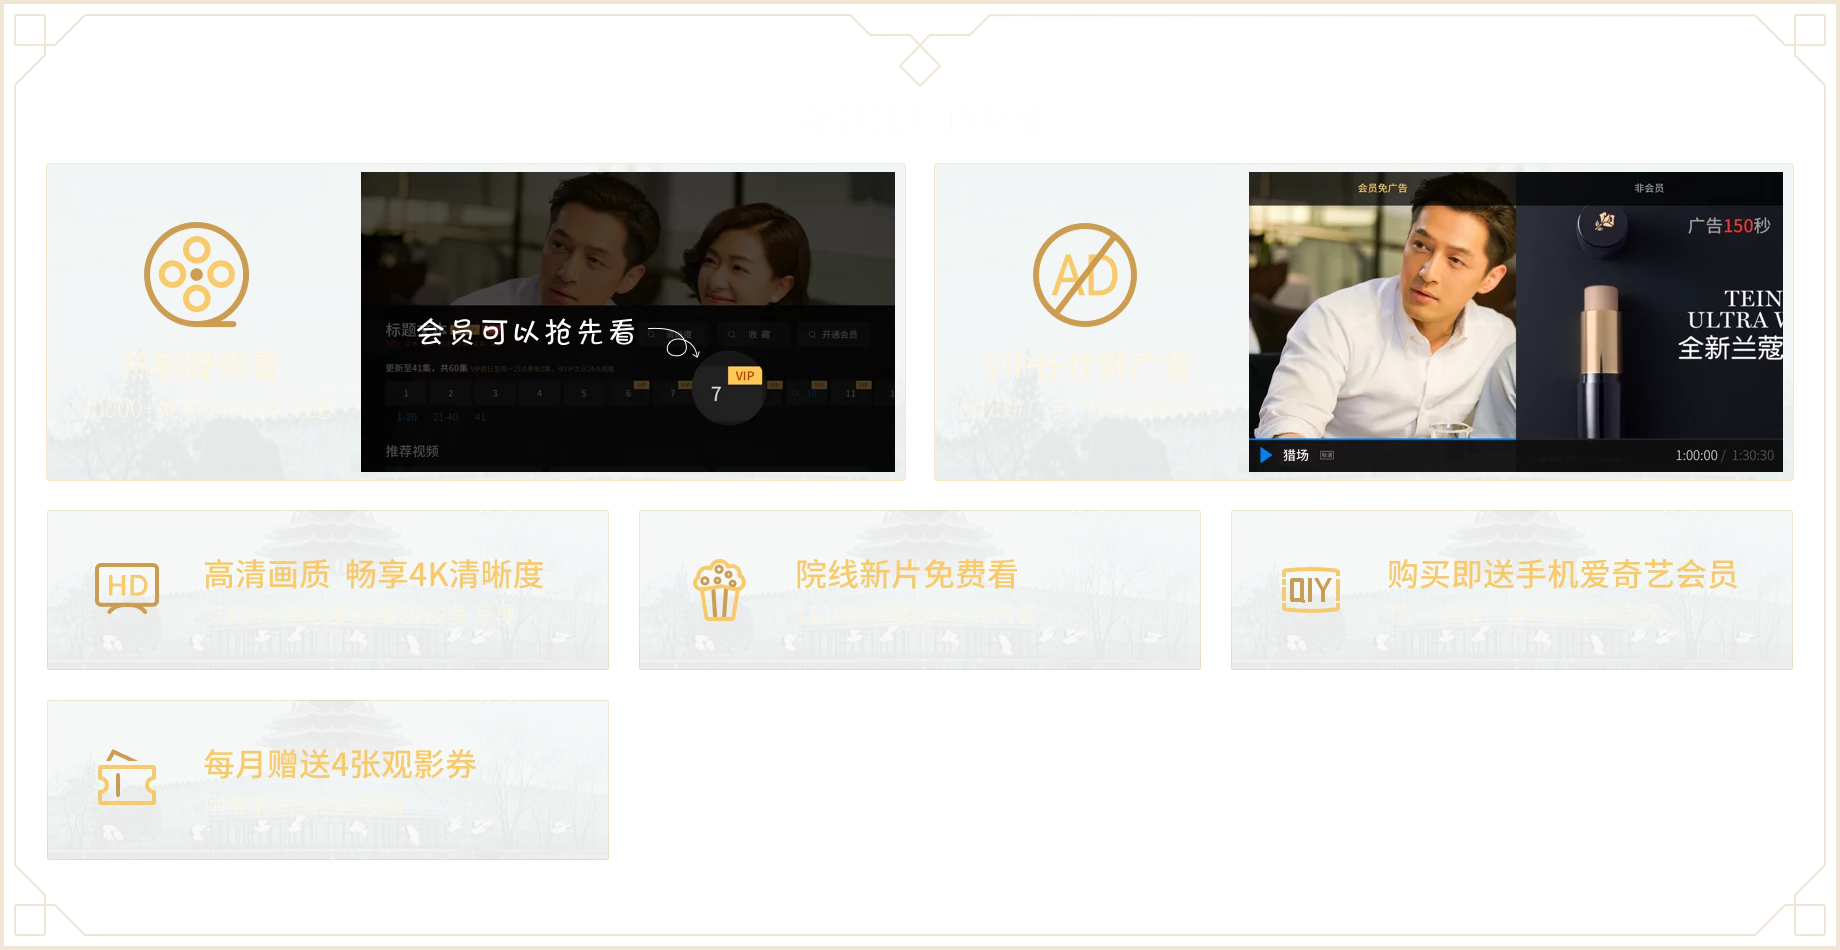
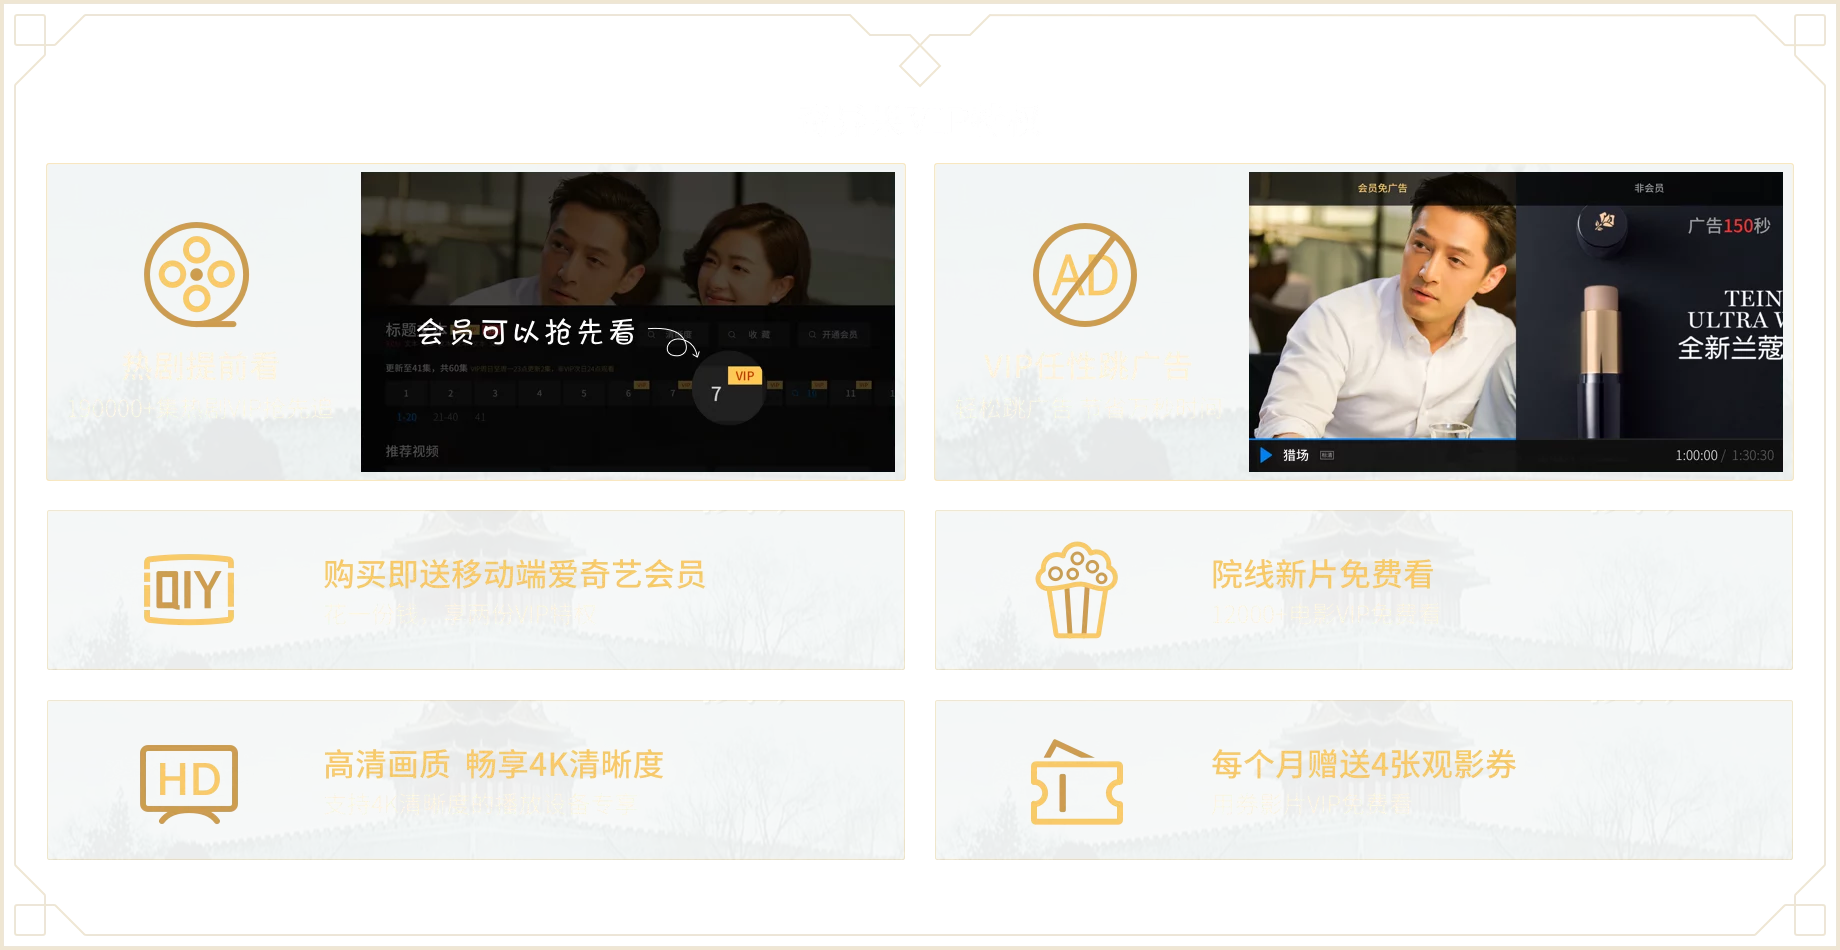
optimize: 统一各页面背景图

diff --git a/membership/memberMovieVIPInterest/sourcecode/css/index.css b/membership/memberMovieVIPInterest/sourcecode/css/index.css
@@ -6,14 +6,16 @@ body {
     -webkit-touch-callout: none;   
     -webkit-text-size-adjust: none;  
     -webkit-user-select: none;   
-    background-color: black;  
     background-attachment:fixed;
+    background-repeat: no-repeat;
+    background-size: cover;
     width:1920px;
     height: 1080px;
     margin:0px;
     padding:0px;
     text-transform:uppercase;
     overflow: hidden;
+    
 }
 
 /*标题区域*/
@@ -152,7 +154,8 @@ body {
 	width: 422px; 
 	height: 100%;
 	margin-right: 22px;
-	background: linear-gradient(-179deg, #FFD07E 0%, #D1AA6F 100%);
+	background-repeat: no-repeat;
+	background-size: 100%;
 	border: 4px solid transparent;
 	box-sizing: border-box;
 	background-origin: border-box;
@@ -240,7 +243,9 @@ body {
 	width: 1754px; /*default,will be re cal*/
 	height: 168px;
 	margin-bottom: 26px;
-	background: linear-gradient(-179deg, #FFD07E 0%, #D1AA6F 100%);
+	background-image: url(../img/entrybg4k.webp);
+	background-repeat: no-repeat;
+	background-size: 100%;
 	border: 4px solid transparent;
 	box-sizing: border-box;
 	background-origin: border-box;
@@ -291,7 +296,6 @@ body {
 	position: relative;
 	margin-top: 30px;
 	margin-bottom: 20px;
-	background: #000000;
 	border: none; /*4px solid;*/
 	-webkit-transform: none;
 	transform: none;

diff --git a/membership/memberMovieVIPInterest/sourcecode/js/getstart.js b/membership/memberMovieVIPInterest/sourcecode/js/getstart.js
@@ -227,7 +227,7 @@ function delayLoad() {
 	//$(".vipPrivilegeDetails").css("background-image", "url(img/movieVIPTencent.webp)");
 	//页面加载失败提示页
 	$(".failToast").css("background-image", "url(img/failToast.webp)");
-	
+	$("body").css("background-image", "url(img/bg.webp)");
 }
 
 //打开图标对应的产品包购买页面
@@ -353,6 +353,13 @@ function drawVipEntryZone() {
 		}else if(barNum < maxNumInOnePage) {
 			console.log("total num <4, one page is enough...");
 			barWidth = Math.round((vipZoneWidth - barMargin*(barNum-1))/barNum);
+		}
+		
+		//更新vip入口背景图：
+		if(_TVSource == "tencent") {
+			$(".vipEntry").css("background-image", "url(img/entrybgTencent.webp)");
+		}else {
+			$(".vipEntry").css("background-image", "url(img/entrybgIqiyi.webp)");
 		}
 		
 		//根据bar的个数复制插入更多bar：

diff --git a/membership/tvPi/sourcecode/css/index.css b/membership/tvPi/sourcecode/css/index.css
@@ -6,8 +6,9 @@ body {
     -webkit-touch-callout: none;                
     -webkit-text-size-adjust: none;             
     -webkit-user-select: none;                  
-    background-color: black; 
     background-attachment:fixed;
+    background-repeat: no-repeat;
+    background-size: cover;
     font-family:'HelveticaNeue-Light', 'HelveticaNeue', Helvetica, Arial, sans-serif;
     font-size:12px;
     height: 1080px;/*100%;*/
@@ -130,24 +131,10 @@ li.btn-focus {
 }
 
 .section {
-	background-color: #000;
 	background-size: cover;
 	background-position: 50% 50%;
 	height: 1080px;
 	width: 100%;
-}
-
-#section0 {
-	background-color: #83af9b;
-}
-#section1 {
-	background-color: #764d39;
-}
-#section2 {
-	background-color: #ff9000;
-}
-#section3 {
-	background-color: #380d31;
 }
 
 .btn-focus{

diff --git a/membership/memberEducationVIPInterest/sourcecode/css/index.css b/membership/memberEducationVIPInterest/sourcecode/css/index.css
@@ -14,6 +14,8 @@ body {
     padding:0px;
     text-transform:uppercase;
     overflow: hidden;
+    background-repeat: no-repeat;
+    background-size: 100%;
 }
 
 /*标题区域*/
@@ -154,7 +156,9 @@ body {
 	width: 858px; /*default,will be re cal*/
 	height: 100%;
 	margin-right: 22px;
-	background: linear-gradient(-223deg, #1BE368 0%, #15CC95 100%);
+	background-image: url(../img/entrybg.webp);
+	background-repeat: no-repeat;
+	background-size: 100%;
 	border: 4px solid transparent;
 	box-sizing: border-box;
 	background-origin: border-box;
@@ -241,7 +245,6 @@ body {
 	position: relative;
 	margin-top: 30px;
 	margin-bottom: 20px;
-	background: #000000;
 	border: none; /*4px solid;*/
 	-webkit-transform: none;
 	transform: none;

diff --git a/membership/memberGrowth/sourcecode/css/index.css b/membership/memberGrowth/sourcecode/css/index.css
@@ -14,6 +14,8 @@ body {
     padding:0px;
     text-transform:uppercase;
     overflow: hidden;
+    background-repeat: no-repeat;
+    background-size: 100%;
 }
 
 /*标题区域*/
@@ -254,7 +256,7 @@ body {
 table th,td {
 	position: relative;
 	width: 217px;
-	height: 60px;
+	height: 55px;
 	border: 1px solid black;
 	text-align: center;
 }
@@ -263,7 +265,7 @@ th {
 	color: rgba(182,150,50,1);
 	font-family: "NotoSansHans-Medium",sans-serif;
 	font-size: 24px;
-	line-height: 60px;
+	line-height: 55px;
 	letter-spacing: 0;
 }
 
@@ -271,7 +273,7 @@ td {
 	color: rgba(204,204,204,1);
 	font-family: "NotoSansHans-Medium",sans-serif;
 	font-size: 24px;
-	line-height: 60px;
+	line-height: 55px;
 	letter-spacing: 0;
 }
 

diff --git a/membership/memberLevelInterest/sourcecode/js/getstart.js b/membership/memberLevelInterest/sourcecode/js/getstart.js
@@ -215,10 +215,12 @@ function preLoadImg(arr) {
 		_preLoadImageArray[i][_picBig].src = app.rel_html_imgpath(arr[i].picBig);
 	}
 	
+	$("body").css("background-image", "url(img/bg.webp)");
 	$("#maskPic").css("background-image", "url(img/mask.webp)");
 
 	var pic = app.rel_html_imgpath(__uri("../img/light.png"));
 	$("#flash").css("background-image", "url("+pic+")");
+	
 	
 	console.log("preLoadImg out...");
 }

diff --git a/membership/tvPi/sourcecode/js/getstart.js b/membership/tvPi/sourcecode/js/getstart.js
@@ -168,4 +168,6 @@ function otherPageInit() {
 	$("#section1").css("background-image", "url("+pic2+")");
 	$("#section2").css("background-image", "url(img/content3.jpg)");
 	$("#section3").css("background-image", "url(img/content4.jpg)");
+	
+	$("body").css("background-image", "url(img/bg.webp)");
 }

diff --git a/membership/memberEducationVIPInterest/sourcecode/js/getstart.js b/membership/memberEducationVIPInterest/sourcecode/js/getstart.js
@@ -200,6 +200,7 @@ function delayLoad() {
 	//页面加载失败提示页
 	$(".failToast").css("background-image", "url(img/failToast.webp)");
 	
+	$("body").css("background-image", "url(img/bg.webp)");
 }
 
 //打开图标对应的产品包购买页面

diff --git a/membership/memberLevelInterest/sourcecode/css/index.css b/membership/memberLevelInterest/sourcecode/css/index.css
@@ -13,9 +13,8 @@ body {
     margin:0px;
     padding:0px;
     overflow: hidden;
-    /*background-image: url(../img/bg.jpg);
     background-repeat: no-repeat;
-    background-size: cover;*/
+    background-size: cover;
 }
 
 .headerContainer {

diff --git a/membership/memberGrowth/sourcecode/js/getstart.js b/membership/memberGrowth/sourcecode/js/getstart.js
@@ -175,6 +175,8 @@ function delayLoad() {
 	
 	//页面加载失败提示页
 	$(".failToast").css("background-image", "url(img/failToast.webp)");
+	
+	$("body").css("background-image", "url(img/bg.webp)");
 }
 
 
